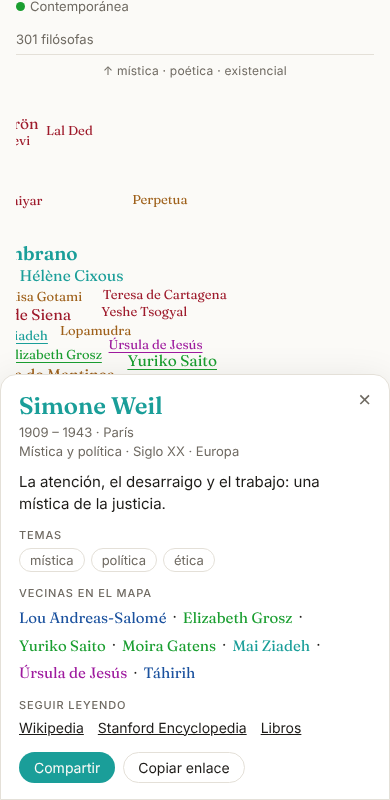
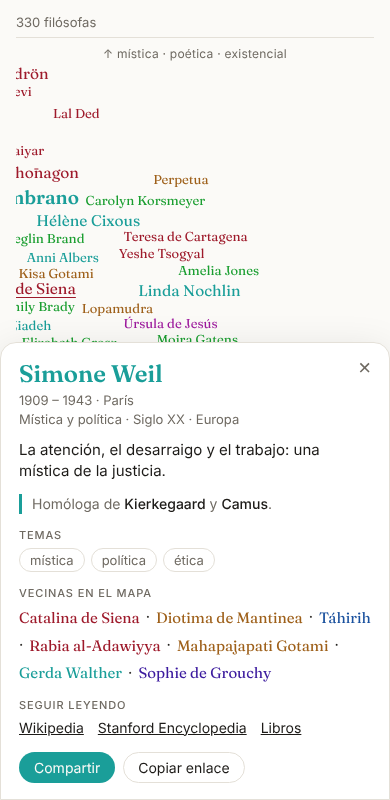
Filósofas: buscar un filósofo muestra su homóloga
- 105 filósofos con su homóloga y el motivo (Heidegger → Hannah Arendt,
  Sartre → Beauvoir, Wittgenstein → Anscombe…), con tolerancia a erratas.
- La ficha indica de quién es homóloga cada filósofa.
- Ficha de Rita Segato ampliada; las vecinas tienen en cuenta el continente.

Claude-Session: https://claude.ai/code/session_01KKfWKBF6TY6dsgWVrcAB93

diff --git a/filosofas/index.html b/filosofas/index.html
@@ -66,6 +66,11 @@ h1{font:600 clamp(26px,5vw,40px)/1.05 Fraunces,Georgia,serif;margin:0 0 6px;lett
 .n.hit{outline:2px solid hsl(var(--h) var(--S) var(--L));outline-offset:1px}
 .hitb{border:0;background:none;padding:0;cursor:pointer;font:500 14px Fraunces,Georgia,serif;color:hsl(var(--h) var(--S) var(--L));text-decoration:underline;text-underline-offset:2px}
 .count{min-height:20px;margin:4px 0}
+.hom{margin:8px 0 2px;padding:10px 14px;border-radius:12px;background:var(--panel);border:1px solid var(--line);font-size:15px;line-height:1.5}
+.hom b{font-family:Fraunces,Georgia,serif;font-weight:600}
+.hom .hitb{font-size:16px}
+aside .homl{font-size:14px;color:var(--muted);border-left:3px solid hsl(var(--h) var(--S) var(--L));padding-left:10px}
+aside .homl b{color:var(--fg);font-weight:500}
 .n.near{text-decoration:underline;text-underline-offset:3px}
 aside{position:fixed;right:16px;top:16px;width:min(380px,calc(100vw - 32px));max-height:calc(100vh - 32px);overflow:auto;
   background:var(--panel);border:1px solid var(--line);border-radius:16px;box-shadow:var(--shadow);padding:18px 18px 16px;
@@ -116,7 +121,7 @@ footer{color:var(--muted);font-size:13px;max-width:1200px;margin:0 auto;padding:
   <h1>Todas las filósofas</h1>
   <p class="sub">Un mapa de pensadoras de todas las épocas. <b>Arriba</b>: más mística, poética, existencial. <b>Abajo</b>: más lógica y científica. <b>Izquierda</b>: más abstracta. <b>Derecha</b>: más política y encarnada. El color indica la época. Cambia a «Línea del tiempo» o «Por continentes» para reordenarlas. Toca un nombre para ver su ficha y sus vecinas.</p>
   <div class="bar">
-    <input id="q" type="search" placeholder="Buscar nombre, lugar o idea…" autocomplete="off">
+    <input id="q" type="search" placeholder="Busca una filósofa, una idea… o un filósofo para ver su homóloga" autocomplete="off">
     <div class="seg" role="group" aria-label="Disposición">
       <button id="mIdeas" aria-pressed="true">Mapa de ideas</button>
       <button id="mTime" aria-pressed="false">Línea del tiempo</button>
@@ -131,6 +136,7 @@ footer{color:var(--muted);font-size:13px;max-width:1200px;margin:0 auto;padding:
   <div class="legend" id="legend"></div>
 </header>
 <div class="wrap">
+  <div class="hom" id="hom" hidden></div>
   <div class="count" id="count"></div>
   <div class="frame" id="frame"><div class="map" id="map"></div></div>
 </div>
@@ -305,7 +311,7 @@ const D=[
 ["Seyla Benhabib",1950,null,0,"Estambul","Teoría crítica","politica etica","Universalismo interactivo y derechos de los otros.",1],
 ["Amelia Valcárcel",1950,null,0,"Madrid","Feminismo ilustrado","feminismo politica","El derecho al mal y la herencia ilustrada del feminismo.",2],
 ["Sueli Carneiro",1950,null,0,"São Paulo","Feminismo negro","raza decolonial conocimiento","El epistemicidio: matar formas de saber.",1],
-["Rita Segato",1951,null,0,"Buenos Aires","Antropología feminista","feminismo decolonial politica","Violencia, cuerpos y el mandato de masculinidad.",2],
+["Rita Segato",1951,null,0,"Buenos Aires","Antropología feminista","feminismo decolonial politica","«Las estructuras elementales de la violencia» y «La guerra contra las mujeres»: la violación como mandato de masculinidad, un acto dirigido a los otros hombres; los cuerpos de las mujeres como territorio de la guerra y la colonialidad.",2],
 ["bell hooks",1952,2021,0,"Kentucky","Feminismo negro","raza feminismo educacion","Pedagogía transgresora y el amor como práctica política.",3],
 ["Christine Korsgaard",1952,null,0,"Chicago","Kantismo","etica","Las fuentes de la normatividad y nuestras obligaciones con los animales.",1],
 ["Joan Tronto",1952,null,0,"Estados Unidos","Ética del cuidado","cuidado politica","El cuidado como cuestión democrática.",1],
@@ -533,7 +539,7 @@ P.forEach(p=>{
 function dims(){
   const W=Math.max(frame.clientWidth||innerWidth-32, mode==='time'?2200:mode==='world'?1700:1400);
   if(mode!=='world'){
-    const H=mode==='time'?Math.max(1000,innerHeight*.95):Math.max(1650,Math.min(1850,W*1.25));
+    const H=mode==='time'?Math.max(1000,innerHeight*.95):Math.max(1750,Math.min(1950,W*1.32));
     return {W,H};
   }
   /* cada continente ocupa un ancho proporcional a lo que ocupan sus nombres */
@@ -624,13 +630,13 @@ function relax(W,H){
   }
 }
 
-/* «vecinas»: comparten temas (sobre todo el principal), están cerca en el mapa y, a igualdad, en el tiempo */
+/* «vecinas»: comparten temas (sobre todo el principal), continente, cercanía en el mapa y, a igualdad, en el tiempo */
 function neighbours(p,k=7){
   return P.filter(q=>q!==p).map(q=>{
     const sh=q.tags.filter(t=>p.tags.includes(t)).length;
     const jac=sh/(new Set([...p.tags,...q.tags]).size);
     const main=(q.tags[0]===p.tags[0]?.35:0)+(q.tags.includes(p.tags[0])?.15:0);
-    const d=-(jac*1.4+main)+Math.hypot(q.ix-p.ix,q.iy-p.iy)*.5+Math.abs(q.b-p.b)/5000;
+    const d=-(jac*1.4+main+(q.c===p.c?.2:0))+Math.hypot(q.ix-p.ix,q.iy-p.iy)*.5+Math.abs(q.b-p.b)/5000;
     return {q,d};
   }).sort((a,b)=>a.d-b.d).slice(0,k).map(o=>o.q);
 }
@@ -647,7 +653,7 @@ function select(p){
   card.innerHTML=`<button class="x" aria-label="Cerrar">×</button>
    <h2>${p.n}</h2>
    <div class="meta">${dates} · ${p.pl}<br>${p.tr} · ${p.era.n} · ${CONTS[p.c]}</div>
-   <p>${p.s}</p>
+   <p>${p.s}</p>${homLine(p)}
    <h3>Temas</h3><div class="tags">${p.tags.map(t=>`<button class="chip" data-t="${t}">${TAGS[t][0]}</button>`).join('')}</div>
    <h3>Vecinas en el mapa</h3><div class="nb">${nb.map(q=>`<button data-i="${q.i}" style="--h:${q.h}">${q.n}</button>`).join(' · ')}</div>
    <h3>Seguir leyendo</h3>
@@ -678,17 +684,164 @@ function nameScore(p,q){
   const words=n.split(/[\s-]+/), qs=q.split(/\s+/).filter(Boolean);
   return qs.every(w=>words.some(x=>x.startsWith(w)||(w.length>=4&&lev(w,x.slice(0,w.length+1))<=(w.length>6?2:1))||(w.length>=4&&lev(w,x)<=(w.length>6?2:1))))?1:0;
 }
-let hits=[];
+/* ---------- homólogas: si buscas a un filósofo, te propone a una filósofa ---------- */
+/* "Nombre|alias": [[filósofa, motivo], …] */
+const HOM={
+ "Pitágoras|Pitagoras":[["Teano","pitagórica, a quien se atribuyen escritos sobre el número y la virtud"],["Temistoclea","según Diógenes Laercio, le enseñó ética"]],
+ "Sócrates|Socrates":[["Diotima de Mantinea","en el Banquete es ella quien enseña a Sócrates"],["Aspasia de Mileto","Platón dice que Sócrates aprendió retórica con ella"]],
+ "Platón|Platon":[["Diotima de Mantinea","la voz que da la teoría del amor en el Banquete"],["Lastenia de Mantinea","alumna de su Academia"]],
+ "Aristóteles|Aristoteles":[["Philippa Foot","renovó la ética de la virtud aristotélica"],["Elizabeth Anscombe","reabrió la ética de la virtud en el siglo XX"]],
+ "Diógenes|Diogenes":[["Hiparquia de Maronea","cínica, vivió la filosofía en la calle como él"]],
+ "Epicuro":[["Leontion","epicúrea de su Jardín"]],
+ "Aristipo":[["Arete de Cirene","su hija heredó y dirigió la escuela cirenaica"]],
+ "Crates":[["Hiparquia de Maronea","su compañera en la vida cínica"]],
+ "Plotino|Proclo|Porfirio":[["Hipatia de Alejandría","la gran maestra neoplatónica"],["Sosípatra","neoplatónica y teúrga"]],
+ "Agustín de Hipona|San Agustín|Agustin":[["Macrina la Joven","pensó el alma y la resurrección en la misma época"]],
+ "Gregorio de Nisa":[["Macrina la Joven","su hermana y maestra en «Sobre el alma y la resurrección»"]],
+ "Yajñavalkya|Yajnavalkya":[["Gargi Vachaknavi","lo interroga sobre el fundamento del universo"],["Maitreyi","su diálogo sobre la inmortalidad"]],
+ "Buda|Siddhartha":[["Mahapajapati Gotami","su madre adoptiva y primera monja"],["Kisa Gotami","la parábola del grano de mostaza"]],
+ "Confucio|Mencio":[["Ban Zhao","pensadora confuciana de la dinastía Han"],["Im Yunjidang","neoconfuciana coreana"]],
+ "Laozi|Lao Tse|Zhuangzi":[["Xie Daoyun","poeta de la escuela del Misterio (xuanxue)"]],
+ "Shankara":[["Gargi Vachaknavi","la metafísica de las Upanishads"]],
+ "Rumi|Al-Ghazali|Ibn Arabi":[["Rabia al-Adawiyya","la gran mística sufí del amor divino"],["Fátima de Nishapur","mística sufí, maestra de Dhu l-Nun"]],
+ "Averroes|Avicena":[["Fátima al-Fihri","fundó al-Qarawiyyin, una de las instituciones de saber más antiguas"]],
+ "Abelardo|Pedro Abelardo":[["Eloísa","su interlocutora: la ética de la intención y del amor"]],
+ "Tomás de Aquino|Tomas de Aquino|Santo Tomás":[["Hildegarda de Bingen","la gran pensadora medieval de la naturaleza y lo divino"]],
+ "Maestro Eckhart|Eckhart":[["Margarita Porete","la aniquilación del alma, antes que él"],["Hadewijch de Amberes","mística beguina del amor"]],
+ "Juan de la Cruz|San Juan de la Cruz":[["Teresa de Ávila","su compañera de reforma y de mística"]],
+ "Erasmo|Petrarca":[["Christine de Pizan","humanista que discutió con los sabios de su tiempo"]],
+ "Montaigne":[["Marie de Gournay","su hija adoptiva y editora de los Ensayos"]],
+ "Descartes":[["Isabel de Bohemia","le planteó el problema mente-cuerpo"]],
+ "Hobbes|Bacon":[["Margaret Cavendish","debatió la filosofía natural de su tiempo"]],
+ "Spinoza":[["Anne Conway","otra metafísica de la sustancia única y viva"],["Moira Gatens","lee a Spinoza desde el feminismo"]],
+ "Leibniz":[["Anne Conway","le inspiró la palabra «mónada»"],["Émilie du Châtelet","sintetizó a Leibniz y Newton"]],
+ "Newton":[["Émilie du Châtelet","tradujo y comentó los Principia"],["Laura Bassi","defendió la física newtoniana"]],
+ "Galileo":[["Laura Bassi","física experimental en la Italia del siglo XVIII"]],
+ "Locke":[["Mary Astell","le preguntó por qué las mujeres nacen esclavas"],["Damaris Masham","su amiga y anfitriona"],["Catharine Trotter Cockburn","lo defendió por escrito"]],
+ "Hume":[["Mary Shepherd","rebatió su teoría de la causalidad"],["Annette Baier","su gran lectora del siglo XX"]],
+ "Rousseau":[["Mary Wollstonecraft","le contestó en la «Vindicación»"],["Olympe de Gouges","los derechos de la ciudadana"]],
+ "Voltaire":[["Émilie du Châtelet","su compañera intelectual"]],
+ "Adam Smith":[["Sophie de Grouchy","tradujo su teoría de los sentimientos y la corrigió"]],
+ "Condorcet":[["Sophie de Grouchy","su compañera y filósofa de la simpatía"]],
+ "Kant":[["Christine Korsgaard","la gran kantiana actual"],["Onora O'Neill","ética kantiana aplicada"]],
+ "Hegel":[["Carla Lonzi","«Escupamos sobre Hegel»"],["Gillian Rose","hegeliana del siglo XX"]],
+ "Goethe|Schiller":[["Germaine de Staël","llevó el romanticismo alemán a Francia"]],
+ "John Stuart Mill|Stuart Mill":[["Harriet Taylor Mill","coautora de sus ideas sobre la libertad y las mujeres"]],
+ "Comte":[["Harriet Martineau","tradujo y condensó su obra"]],
+ "Marx|Engels":[["Rosa Luxemburgo","la gran marxista revolucionaria"],["Silvia Federici","el trabajo reproductivo que Marx no vio"]],
+ "Bakunin|Kropotkin|Proudhon":[["Emma Goldman","la anarquista más influyente"],["He-Yin Zhen","anarcofeminismo chino"]],
+ "Lenin|Trotsky":[["Alexandra Kollontai","revolucionaria que repensó el amor y la familia"]],
+ "Gramsci|Lukács|Lukacs":[["Agnes Heller","alumna de Lukács, Escuela de Budapest"],["Raya Dunayevskaya","humanismo marxista"]],
+ "Kierkegaard":[["Simone Weil","fe, angustia y absoluto"]],
+ "Nietzsche":[["Lou Andreas-Salomé","su interlocutora (y a quien propuso matrimonio)"],["Sarah Kofman","una de sus mejores lectoras"]],
+ "Freud":[["Lou Andreas-Salomé","psicoanalista de su círculo"],["Julia Kristeva","psicoanálisis y lenguaje"]],
+ "Lacan":[["Luce Irigaray","la expulsaron de su escuela por criticarle"],["Julia Kristeva","lo semiótico frente a lo simbólico"]],
+ "Jung":[["Lou Andreas-Salomé","psique y erotismo"]],
+ "Peirce|Charles Peirce":[["Victoria Welby","su correspondencia sobre el significado"],["Christine Ladd-Franklin","fue su alumna de lógica"]],
+ "William James":[["Mary Whiton Calkins","fue su alumna; psicología del yo"]],
+ "Dewey|John Dewey":[["Jane Addams","la otra cara del pragmatismo"],["Yuriko Saito","la estética de la experiencia cotidiana"]],
+ "Husserl":[["Edith Stein","su asistente y fenomenóloga"],["Hedwig Conrad-Martius","fenomenología realista"]],
+ "Heidegger":[["Hannah Arendt","su alumna, y pensadora de la acción frente a él"]],
+ "Jaspers":[["Hannah Arendt","dirigió su tesis"],["Jeanne Hersch","fue su alumna"]],
+ "Sartre":[["Simone de Beauvoir","su compañera, y la existencialista más leída"]],
+ "Camus":[["Simone Weil","él publicó su obra póstuma"]],
+ "Merleau-Ponty":[["Iris Marion Young","«Lanzar como una chica»: fenomenología del cuerpo femenino"],["Sara Ahmed","fenomenología queer"]],
+ "Levinas":[["Adriana Cavarero","ética de la relación y la unicidad"]],
+ "Ortega y Gasset|Ortega":[["María Zambrano","su discípula, de la razón vital a la razón poética"]],
+ "Unamuno":[["María Zambrano","la agonía y la palabra poética"]],
+ "Wittgenstein":[["Elizabeth Anscombe","su alumna y traductora"],["Cora Diamond","una de sus grandes lectoras"]],
+ "Russell|Bertrand Russell":[["Susan Stebbing","lógica y pensamiento crítico"],["Dorothy Wrinch","trabajó con él en lógica"]],
+ "Frege|Carnap|Gödel|Godel":[["Ruth Barcan Marcus","lógica modal"],["Rózsa Péter","funciones recursivas"]],
+ "Quine|Kripke":[["Ruth Barcan Marcus","anticipó la necesidad de la identidad"]],
+ "Turing":[["Ada Lovelace","imaginó la computación un siglo antes"]],
+ "Popper":[["Susan Haack","epistemología y ciencia"]],
+ "Kuhn":[["Margaret Masterman","analizó sus 21 sentidos de «paradigma»"]],
+ "Feyerabend|Latour|Bruno Latour":[["Isabelle Stengers","cosmopolíticas"],["Donna Haraway","conocimientos situados"]],
+ "Darwin|Lovelock":[["Lynn Margulis","simbiogénesis y Gaia"]],
+ "Dennett|Searle|Fodor":[["Patricia Churchland","neurofilosofía"],["Ruth Millikan","teleosemántica"],["Margaret Boden","mente y creatividad"]],
+ "Peter Singer|Singer":[["Mary Midgley","animales y ética"],["Christine Korsgaard","nuestras obligaciones con los animales"]],
+ "MacIntyre":[["Philippa Foot","ética de la virtud"]],
+ "Rawls":[["Susan Moller Okin","justicia, género y familia"],["Martha Nussbaum","el enfoque de las capacidades"]],
+ "Nozick":[["Elizabeth Anderson","igualdad democrática"]],
+ "Habermas|Apel":[["Seyla Benhabib","universalismo interactivo"],["Adela Cortina","ética discursiva"]],
+ "Adorno|Horkheimer":[["Gillian Rose","«La ciencia melancólica», sobre Adorno"]],
+ "Marcuse":[["Angela Davis","fue su alumna"]],
+ "Honneth|Axel Honneth":[["Nancy Fraser","debatieron redistribución y reconocimiento"],["Rahel Jaeggi","teoría crítica actual"]],
+ "Rorty":[["Nancy Fraser","pragmatismo y teoría crítica"]],
+ "Laclau":[["Chantal Mouffe","su compañera y coautora"]],
+ "Foucault":[["Judith Butler","el poder y la producción del sujeto"]],
+ "Derrida":[["Hélène Cixous","su amiga y la escritura femenina"],["Sarah Kofman","deconstrucción"]],
+ "Deleuze|Guattari":[["Rosi Braidotti","sujetos nómades"],["Suely Rolnik","coautora con Guattari"]],
+ "Agamben|Esposito":[["Adriana Cavarero","la vida y la vulnerabilidad"]],
+ "Byung-Chul Han|Han":[["Marina Garcés","pensar el presente en común"]],
+ "Barthes|Roland Barthes|Saussure":[["Julia Kristeva","semiótica"]],
+ "Bourdieu":[["Janet Wolff","sociología del arte"]],
+ "Fanon|Frantz Fanon":[["Sylvia Wynter","desmontar el «Hombre» colonial"]],
+ "Said|Edward Said":[["Gayatri Spivak","poscolonialismo"]],
+ "Dussel|Mignolo|Quijano":[["María Lugones","colonialidad del género"],["Silvia Rivera Cusicanqui","lo ch'ixi"]],
+ "Paulo Freire|Freire":[["bell hooks","pedagogía transgresora"]],
+ "Du Bois|W. E. B. Du Bois":[["Anna Julia Cooper","«Una voz del Sur»"]],
+ "Fred Moten|Moten":[["Sylvia Wynter","estética y ser negro"],["Audre Lorde","poesía y teoría negra"]],
+ "Lawrence Weiner|Weiner|Sol LeWitt|Kosuth":[["Lucy Lippard","la desmaterialización del objeto artístico"]],
+ "Greenberg|Clement Greenberg":[["Rosalind Krauss","fue su discípula y su crítica"]],
+ "John Berger|Berger":[["Laura Mulvey","la mirada masculina"]],
+ "Gombrich|Panofsky":[["Linda Nochlin","la historia del arte feminista"],["Griselda Pollock","visión y diferencia"]],
+ "Berleant|Arnold Berleant|Allen Carlson":[["Yuriko Saito","estética cotidiana"],["Emily Brady","estética ambiental"]],
+ "Tanizaki|Okakura":[["Sei Shōnagon","la estética japonesa de lo cotidiano"],["Yuriko Saito","estética japonesa"]],
+ "Timothy Morton|Morton":[["Val Plumwood","ecofeminismo"],["Donna Haraway","pensar con otras especies"]],
+ "Duchamp|Hélio Oiticica|Oiticica":[["Lygia Clark","el arte como experiencia del cuerpo"]],
+ "Lévi-Strauss|Levi-Strauss|Malinowski":[["Marilyn Strathern","«El género del don»"]],
+ "Simmel|Benjamin|Walter Benjamin":[["Janet Wolff","la flâneuse invisible"]]
+};
+const HOMK=Object.entries(HOM).map(([k,v])=>({alias:k.split('|'),name:k.split('|')[0],list:v}));
+/* ¿lo buscado es un filósofo? Coincide con un alias (o con su apellido), tolerando erratas */
+function homologa(q){
+  if(q.length<3)return null;
+  let best=null;
+  for(const h of HOMK){
+    for(const a of h.alias){
+      const n=norm(a), last=n.split(' ').pop();
+      let sc=0;
+      if(n===q)sc=3; else if(n.startsWith(q)&&q.length>=4)sc=2.5; else if(q.length>=4&&(q===last||lev(q,n)<=(n.length>6?2:1)||lev(q,last)<=(last.length>6?2:1)))sc=2;
+      else if(q.includes(n)&&n.length>=4)sc=1.5;
+      if(sc&&(!best||sc>best.sc))best={h,sc};
+    }
+  }
+  if(!best)return null;
+  return {name:best.h.name,list:best.h.list.map(([n,m])=>({p:P.find(x=>x.n===n),m})).filter(o=>o.p)};
+}
+
+/* línea «Homóloga de…» en la ficha: si llegas buscando a un filósofo, su motivo; si no, a quiénes corresponde */
+function homLine(p){
+  const esc=t=>t.replace(/[&<>]/g,c=>({'&':'&amp;','<':'&lt;','>':'&gt;'}[c]));
+  if(homNow){const o=homNow.list.find(o=>o.p===p); if(o)return `<p class="homl">Homóloga de <b>${esc(homNow.name)}</b>: ${esc(o.m)}.</p>`;}
+  const of=HOMK.filter(h=>h.list.some(([n])=>n===p.n)).map(h=>h.name);
+  return of.length?`<p class="homl">Homóloga de ${of.map(n=>'<b>'+esc(n)+'</b>').join(', ').replace(/, ([^,]*)$/,' y $1')}.</p>`:'';
+}
+let hits=[], homNow=null;
 function filter(){
   const q=norm(query.trim()); let c=0; hits=[];
+  /* si no coincide con ninguna filósofa pero sí con un filósofo, mostramos sus homólogas */
+  homNow=(q&&!P.some(p=>nameScore(p,q)>=2))?homologa(q):null;
+  if(homNow&&!homNow.list.length)homNow=null;
+  const homSet=new Map((homNow?homNow.list:[]).map((o,k)=>[o.p,2.5-k*.01]));
   P.forEach(p=>{
     const hay=norm([p.n,p.pl,p.tr,p.s,p.era.n,CONTS[p.c],p.tags.map(t=>TAGS[t][0]).join(' ')].join(' '));
-    const ns=q?nameScore(p,q):0;
+    const ns=Math.max(q?nameScore(p,q):0,homSet.get(p)||0);
     const ok=(!q||ns>0||hay.includes(q))&&(!activeTag||p.tags.includes(activeTag))&&(activeCont===null||p.c===activeCont);
     p.el.classList.toggle('off',!ok); p.el.classList.toggle('hit',!!(q&&ok&&ns));
     if(ok){c++; if(q)hits.push({p,s:ns})}
   });
   hits.sort((a,b)=>b.s-a.s||b.p.w-a.p.w);
+  const hb=document.getElementById('hom');
+  if(homNow){
+    hb.innerHTML='¿Buscas a <b></b>? '+(homNow.list.length>1?'Sus homólogas':'Su homóloga')+': ';
+    hb.querySelector('b').textContent=homNow.name;
+    homNow.list.forEach((o,k)=>{const b=document.createElement('button');b.className='hitb';b.textContent=o.p.n;b.style.setProperty('--h',o.p.h);
+      b.onclick=e=>{e.stopPropagation();select(o.p);goTo(o.p)};
+      if(k)hb.append(' · '); hb.append(b,' ('+o.m+')')});
+    hb.hidden=false;
+  } else hb.hidden=true;
   const cnt=document.getElementById('count');
   cnt.textContent=(q||activeTag||activeCont!==null)?`${c} de ${P.length} filósofas`:`${P.length} filósofas`;
   if(q){
@@ -721,7 +874,7 @@ let qt;
 const qi=document.getElementById('q');
 qi.addEventListener('input',e=>{query=e.target.value;filter();
   clearTimeout(qt);qt=setTimeout(()=>{const nm=hits.filter(h=>h.s>0);
-    if(nm.length===1)select(nm[0].p); if(nm.length){goTo(nm[0].p)} },500)});
+    if(nm.length===1||homNow)select(nm[0].p); if(nm.length){goTo(nm[0].p)} },500)});
 qi.addEventListener('keydown',e=>{if(e.key==='Enter'&&hits.length){clearTimeout(qt);select(hits[0].p);goTo(hits[0].p);qi.blur()}});
 function setMode(m){mode=m;
   document.getElementById('mIdeas').setAttribute('aria-pressed',m==='ideas');
